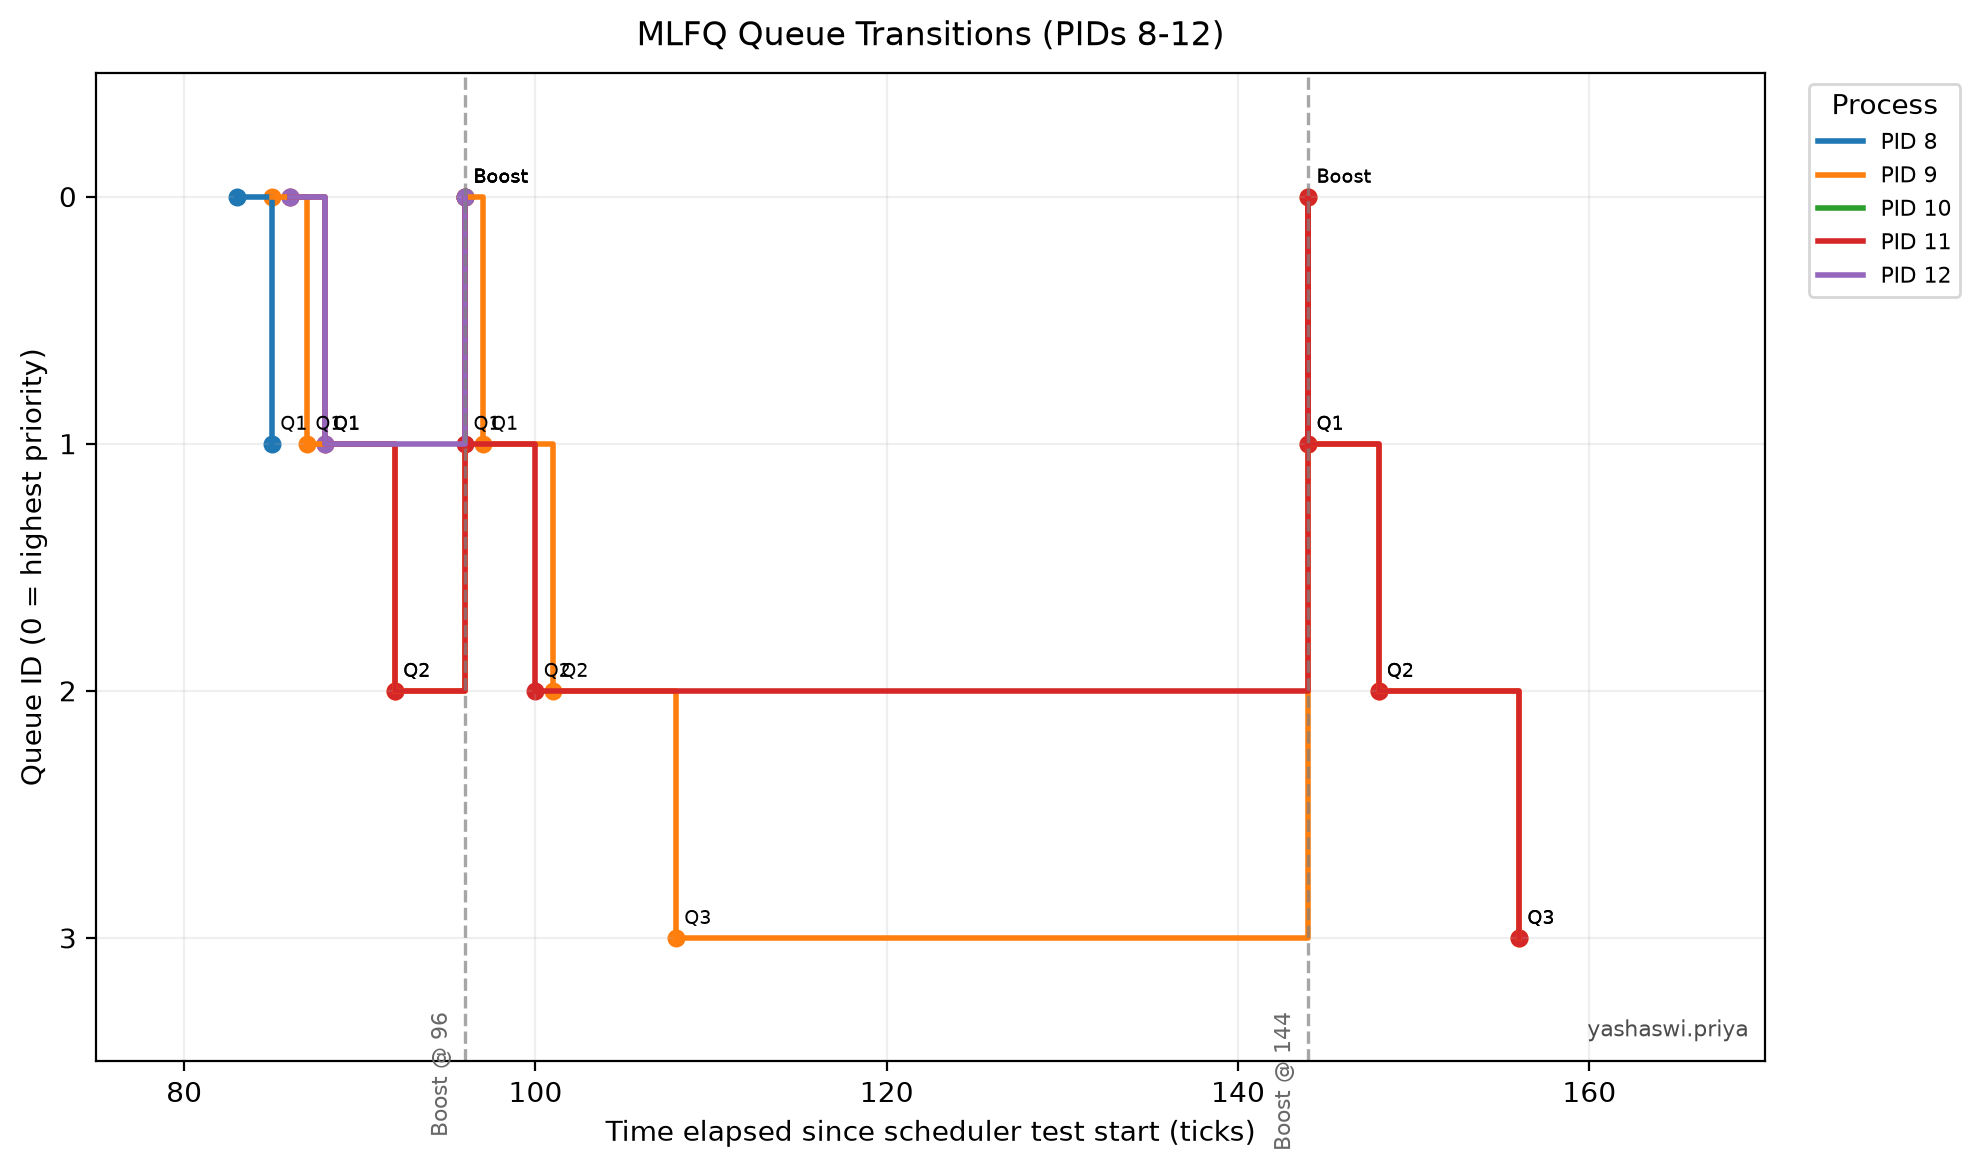
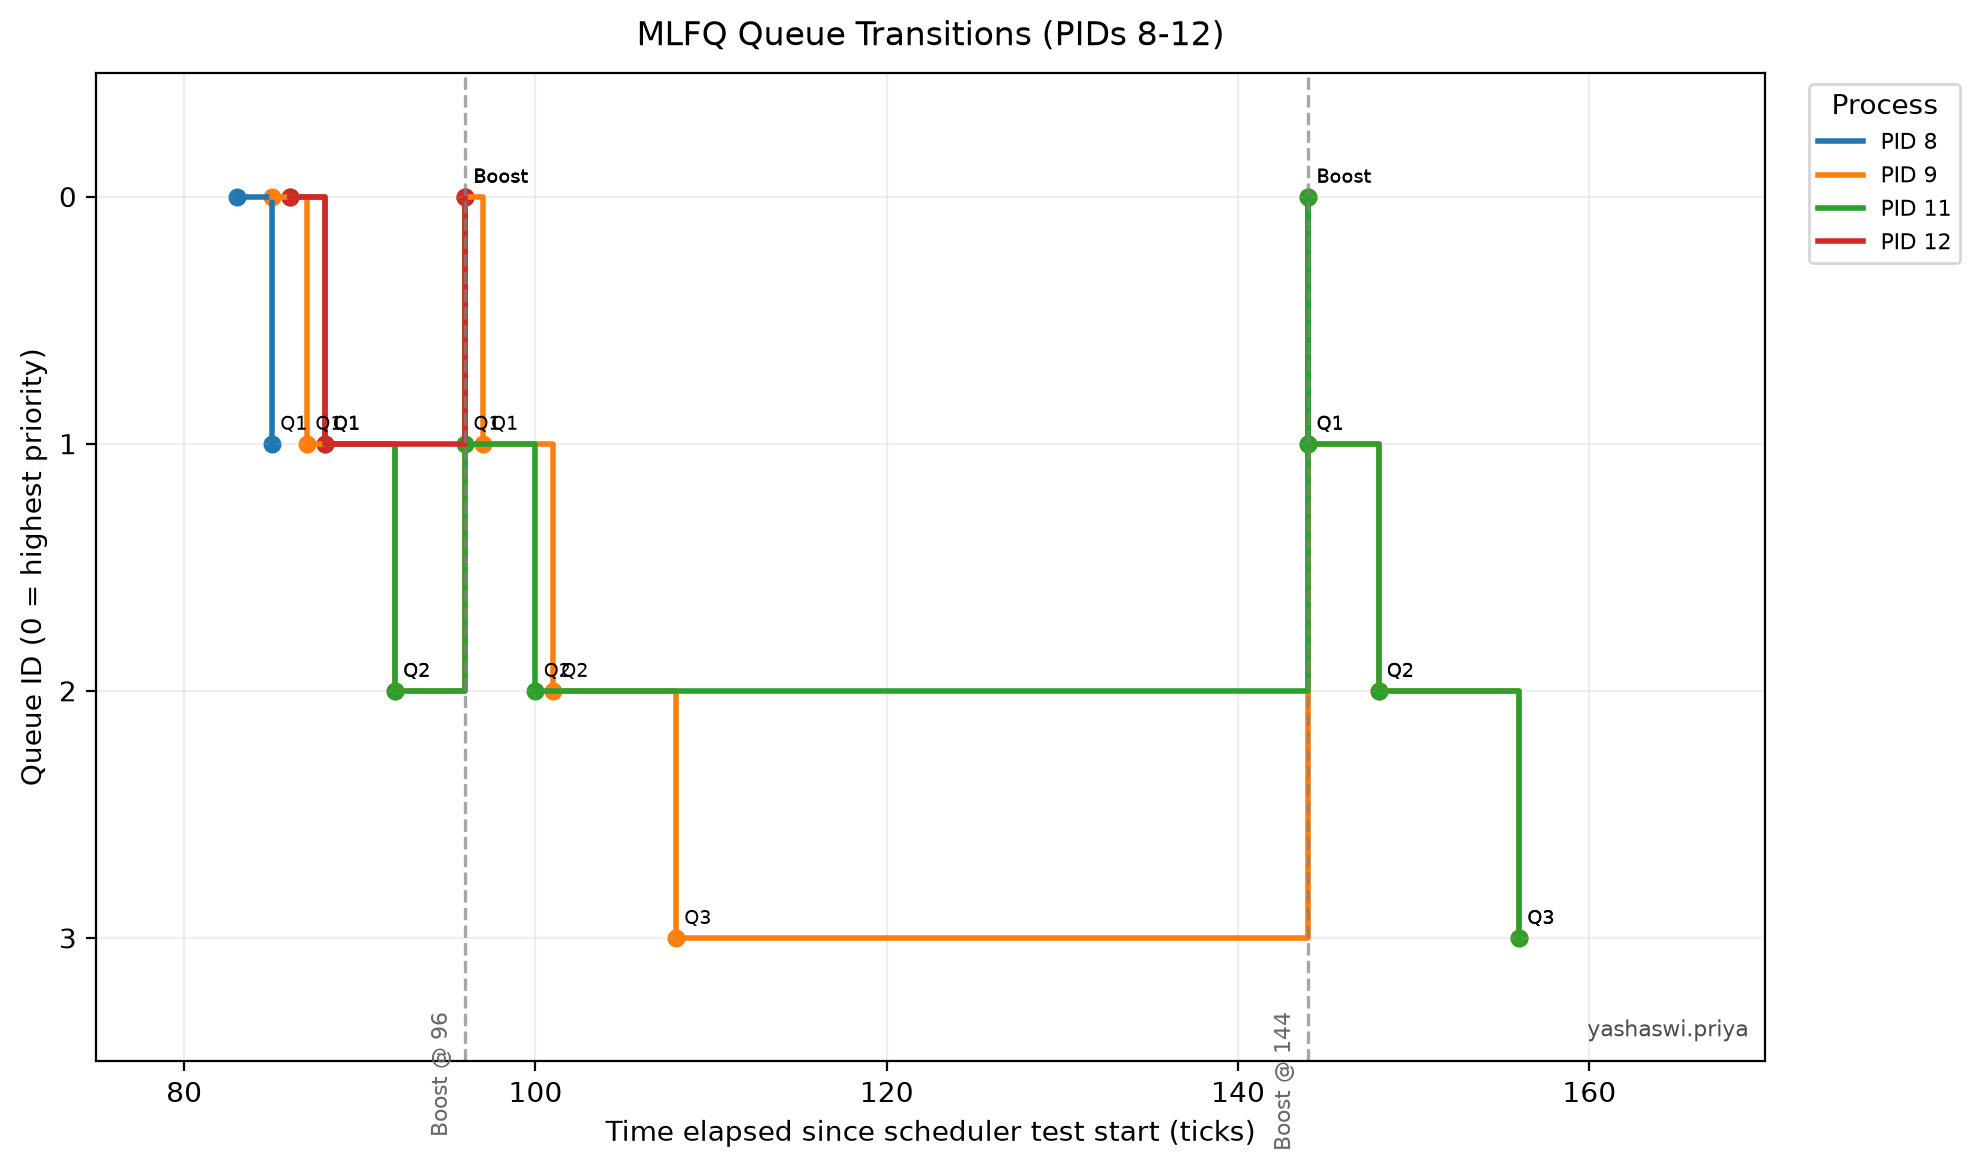
report fixed

diff --git a/xv6/plotting/generate_graph.py b/xv6/plotting/generate_graph.py
@@ -4,7 +4,7 @@ import matplotlib.pyplot as plt
 df = pd.read_csv("mlfq_timeline_data.csv")
 
 # FILTER: Keep only PIDs 8, 9, 10, 11, and 12
-df = df[df["pid"].isin([8, 9, 10, 11, 12])]
+df = df[df["pid"].isin([8, 9, 11, 12])]
 
 # Ensure START events exist for these processes so lines start cleanly at Q0
 base_events = []

diff --git a/xv6/report.md b/xv6/report.md
@@ -79,13 +79,11 @@ schedtest tests how scheduler peforms under
 1. Heavy computational load  
 2. IO bound processes  
 
-pid 5 (orange) : this is the io bound interactie process. It runs only for a sgort period before stopping to yield to wait for input. Since it gives cpu back so frequently and beofre a time slice completes, its priority remains high (0 and 1), as the tick counter us constantly reset to 0.  
+pid 8 and 12 : this is the io bound interactie process. It runs only for a speriod, then completes its execution and calls exit() early in the timeline, which is why its line terminates abruptly. pid 12 still runs till bosst and gets boosted from q1 to q0 and then exits.
 
-pid 4 (blue) : this finishes its allocated ticks and gets down on the q. But the shift from q2 to q3 is at 20 not 13 to simulate a yield for io. So, it sits in q2 for longer, before getting demoted to q3. THis is medium cpu bound.  
+pid 9 and 11 (pink) : these are a heavily cpu bound process, and drops down the priority queue, as it never yields control for sleep or io.  
 
-pid 3 (pink) : this is a heavily cpu bound process, and drops to last priority at 13 secs (1+4+8), as it never yields control for sleep or io.  
-
-boost: the global prioirty boost occurs at every 48 seconds. proc 5 isnt much affected by it, because the use of a priority boost is to make sure cpu bound tasks are not starved for execution time. So, at 48 and 96, all processes are returned to priority 0, which helps prevent starvaion of pid 4 and pid 3.
+boost: the global prioirty boost occurs at every 48 seconds. The use of a priority boost is to make sure cpu bound tasks are not starved for execution time. So, at 96 and 144, all processes are returned to priority 0, which helps prevent starvaion of pid 11.
 
 ## 2.3.3 Comparison Results
 
